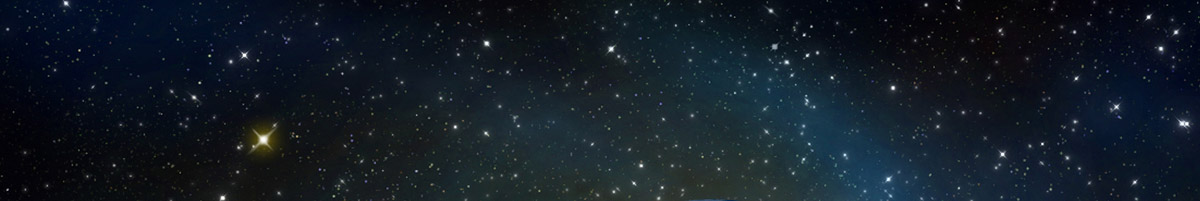
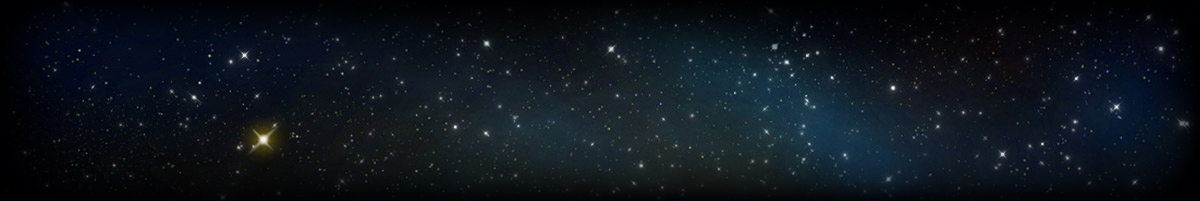
Changes header

diff --git a/css/style.css b/css/style.css
@@ -1,56 +1,89 @@
 html {
 	padding:10px;
-	font-family: "Century Gothic"
 }
+
 body {
-	background-color: #efefef;
+	background-color: #45454b!important;
+	font-family: "Century Gothic"!important;
+	color: #4d4d4d !important;
+}
+.container{
+	background-color:#ffffff;
+	padding-left:0!important;
+	padding-right:0!important;
 }
 header {
-	background: url("../imgs/bg-header.jpg");
-	margin-bottom: 55px;
+	background: url("../imgs/bg-header.jpg") top right;
+	height:205px;
+	display:block;
+	position:relative;
 }
-#baner {
-	margin-top: 160px;
-	background-color: #dcd121;
-	-webkit-box-shadow: 0 0 10px rgba(0, 0, 0, 0.7) inset;  /* Safari 3-4, iOS 4.0.2 - 4.2, Android 2.3+ */
-  	-moz-box-shadow:    0 0 10px rgba(0, 0, 0, 0.7) inset;  /* Firefox 3.5 - 3.6 */
-  	box-shadow:         0 0 10px rgba(0, 0, 0, 0.7) inset;  /* Opera 10.5, IE 9, Firefox 4+, Chrome 6+, iOS 5 */
-}
-#baner h3 {
-	font-size: 25px;
-	margin:0;
-	padding:5px;
-}
+
 #logo {
-    position: absolute;
-    top: 15px;
+    position: relative;
+	display:inline-block;
+	width:40%;
+    top: 25px;
     left: 15px;
     bottom: 0;
     right: 0;
+	z-index:100;
 }
-h1#title {
+
+#logo h1 {
     position: absolute;
-    top: 88px;
-    left: 146px;
-    bottom: 0;
-    right: 0;
+	display:inline-block;
+	margin:0;
+	padding:0;
+    bottom: 42%;
+    left: 136px;
 	font-weight: 900;
-	letter-spacing: -0.03em;
 	color: white;
 	font-size: 35px;
 	text-transform: uppercase;
 }
-#plus {
-	height: 25px;
+
+#banner {
+	display:block;
+	width:100%;
+	min-height:45px;
+	position:absolute;
+	bottom:0px;
+	padding:6px 10%;
+	text-align:right;
+	background-color: #d4cb3d;
+	z-index:10;
+	-webkit-box-shadow: 0 0 17px 0px rgba(0, 0, 0, 0.5) inset;  /* Safari 3-4, iOS 4.0.2 - 4.2, Android 2.3+ */
+  	   -moz-box-shadow: 0 0 17px 0px rgba(0, 0, 0, 0.5) inset;  /* Firefox 3.5 - 3.6 */
+  	             box-shadow: 0 0 17px 0px rgba(0, 0, 0, 0.5) inset;  /* Opera 10.5, IE 9, Firefox 4+, Chrome 6+, iOS 5 */
 }
 
+ul#nav{
+	display:inline-block;
+	margin:0;
+	margin-bottom:0px !important;
+	padding:2px 0 0 30%;
+}
+ul#nav li{
+	margin:0;
+	padding:0 10px	;
+	float:left;
+	color: #0e0d17;
+	text-transform:uppercase;
+	font-size:1.3em!important;
+	font-weight:bold;
+	color:#0e0d17;
+	letter-spacing:2px;
+    list-style-type: none;
+}
 
 
 /*  Le parti presentation */
 #presentation{
-	background-image: url("imgs/ecailles.png");
-	background-repeat: repeat;
-	margin-top: 100px;
+	width:100%;
+	height:auto;
+	display:block;
+	position:relative;
 }
 /*  Chaque parti de presentation */
 #article{
@@ -64,13 +97,18 @@ h1#title {
 }
 /*  Le titre des presentation */
 .titre-pres{
-	font-size: 30px;
+	font-size: 1.7em;
 	text-align: center;
-	color: #424242;
+	color: #0e0d17;
+	text-transform:uppercase;
+	text-align:left;
+}
+.align-right{
+	text-align:left;
 }
 /*  Le text des presentation */
 .text-pres{
 	text-align: justify;
-	font-size: 20px;
+	font-size: 1.2em;
 	color: #424242;
 }

diff --git a/index.html b/index.html
@@ -8,24 +8,16 @@
 	</head>
 	<body>
 		<div class="container">
-			<header class="col-xs-12 col-sm-12">
-				<div class="row">
-					<div id="plus" class="visible-xs">
-					</div>
-					<div id="baner" class="col-xs-12">
-						<div class="col-xs-6 col-sm-7">
-						</div>
-						<div class="col-xs-6 col-sm-5">
-							<div class="col-xs-12 col-sm-5">
-								<h3>Accueil</h3>
-							</div>
-							<div class="col-xs-12 col-sm-5">
-								<h3>Articles</h3>
-							</div>
-						</div>
-					</div>
-					<img src="imgs/bg-logo.png" id="logo" class="img-responsive" />
-					<h1 id="title">Wild Astronaut</h1>
+			<header>
+				<div  id="logo">
+					<h1>Wild Astronaut</h1>
+					<img src="imgs/bg-logo.png" class="img-responsive" />
+				</div>
+				<div id="banner">
+					<ul id="nav">
+						<li>Accueil</li>
+						<li>Articles</li>
+					</ul>
 				</div>
 			</header>
 			<!-- Le parti de presentation -->
@@ -54,7 +46,7 @@
 		        	</div>
 		        	<div class="col-sm-6 col-sm-offset-2">
 		        		<!-- Le titre de 2em presentation -->  
-		          		<p class="titre-pres"> Titre deDDD presentaion</p>
+		          		<p class="titre-pres text-right"> Titre deDDD presentaion</p>
 		          		<!-- Le text de 2em presentation -->
 		          		<p class="text-pres"> sit amet, consectetur adipisicing elit. Earum at nam consectetur pariatur beatae omnis optio rem, odio officiis soluta, culpa. Dignissimos necessitatibus modi illo, perspiciatis quisquam, in sapiente ipsa, accusantium tempora voluptatum earum inventore officia? Molestiae numquam aut consectetur vel reprehenderit corporis labore </p>
 		        	</div>
